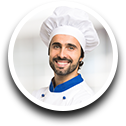
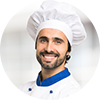
Cake right image

diff --git a/css/main.css b/css/main.css
@@ -198,7 +198,7 @@ nav ul li {
     margin-right: auto;
     width: 100%;
     object-fit: scale-down;
-    height: 110px;
+    height: 106px;
 }
 
 /*** CAKES ***/
@@ -206,11 +206,15 @@ nav ul li {
 #cakes {
     padding-top: 100px;
     width: 1260px;
-    background-color: #FFFFFF;
+    /*background-color: #FFFFFF;*/
+    background-image: url('../img/cakes-bg.png');
+    display: inline-block;
+    vertical-align: middle;
+    height: 100%;
 }
 
 #cakes-left {
-    width: 600px;
+    width: 630px;
 }
 
 #cakes-left h1 {
@@ -266,7 +270,7 @@ nav ul li {
     border-top: 1px solid;
     border-bottom: 1px solid;
     border-color: #D7D5CA;
-    margin: 33px 10px;
+    margin: 22px 15px;
 }
 
 .cakes-subdiv h4 {
@@ -328,4 +332,18 @@ nav ul li {
     color: #A47D5E;
     padding: 0;
     margin: 0;
+}
+
+#cakes-right {
+    width: 610px;
+    padding: 0 10px;
+    height: 578px;
+}
+
+#cakes-right img {
+    width: 610px;
+    margin: auto;
+    position: relative;
+    top: 50%;
+    transform: translateY(-50%);
 }

diff --git a/index.html b/index.html
@@ -86,7 +86,7 @@
                     </div>
                 </div>
                 <div class="half-width" id="cakes-right">
-                    (Tastes so good! Image)
+                    <img src="img/cakes-right.png" alt="tasty-cakes" />
                 </div>
             </div>
             <div class="full-width" id="pancakes">
